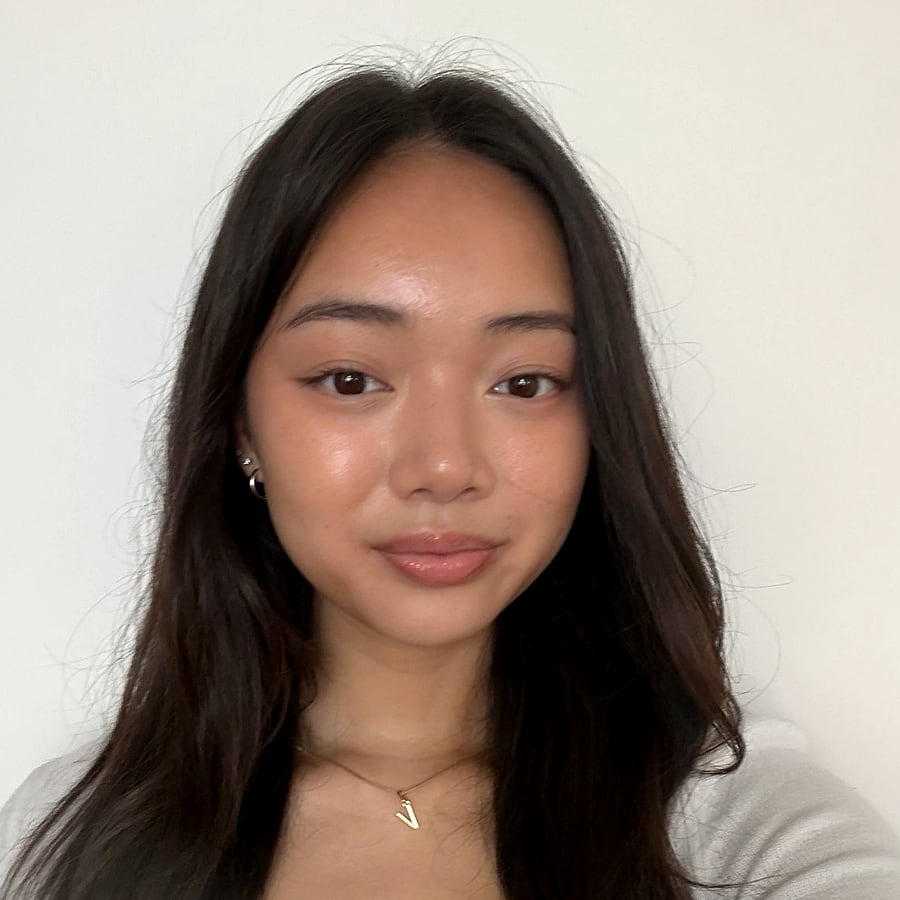
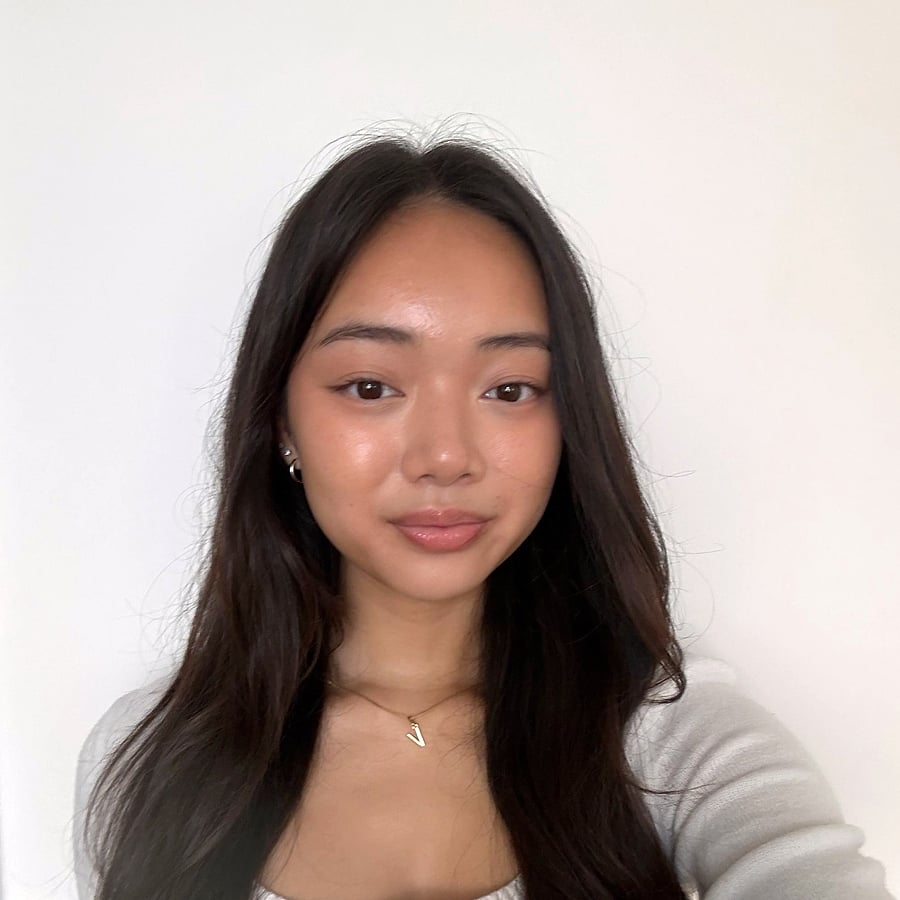
Brighten portrait, remove grey cast, and widen the crop

diff --git a/index.html b/index.html
@@ -129,7 +129,7 @@
         <figure class="paper polaroid reveal" style="--paper: var(--white); --tilt: -2.5deg">
           <span class="tape tape-top"></span>
           <div class="polaroid-photo">
-            <img src="images/vivian.jpg" alt="Portrait of Vivian Tran" width="900" height="900" loading="lazy" decoding="async" />
+            <img src="images/vivian.jpg?v=2" alt="Portrait of Vivian Tran" width="900" height="900" loading="lazy" decoding="async" />
           </div>
           <figcaption>Springfield, VA</figcaption>
         </figure>
